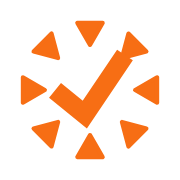
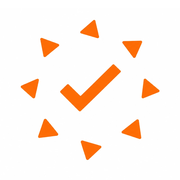
アイコンをいただいた画像そのものに差し替える
前回は画像ファイルが手元に無く、意匠を作図で再現したが別物になっていた。
会話に添付された元画像を取り出し、そのまま使う。

- 加工は正方形への切り出しとサイズ変換のみ。図柄の位置・形・色はそのまま
- 図柄の外接矩形を測って中心を出し、図柄が正方形の78%を占めるよう切り出し
- 作図した icon.svg は削除し、index.html と manifest の参照も外した

Claude-Session: https://claude.ai/code/session_01FU7zgRe3ZNnQcKzPwSy5c7

diff --git a/index.html b/index.html
@@ -7,9 +7,8 @@
 <meta name="apple-mobile-web-app-title" content="棚卸し">
 <meta name="theme-color" content="#faf9f5">
 <title>タスク</title>
-<!-- ホーム画面に追加したときのアイコン。iOS は SVG を読まないので PNG を渡す。 -->
+<!-- ホーム画面に追加したときのアイコン。いただいた画像をそのまま使用（正方形に切り出しただけ）。 -->
 <link rel="apple-touch-icon" href="icon-180.png">
-<link rel="icon" type="image/svg+xml" href="icon.svg">
 <link rel="icon" type="image/png" sizes="192x192" href="icon-192.png">
 <link rel="manifest" href="manifest.webmanifest">
 <script>
